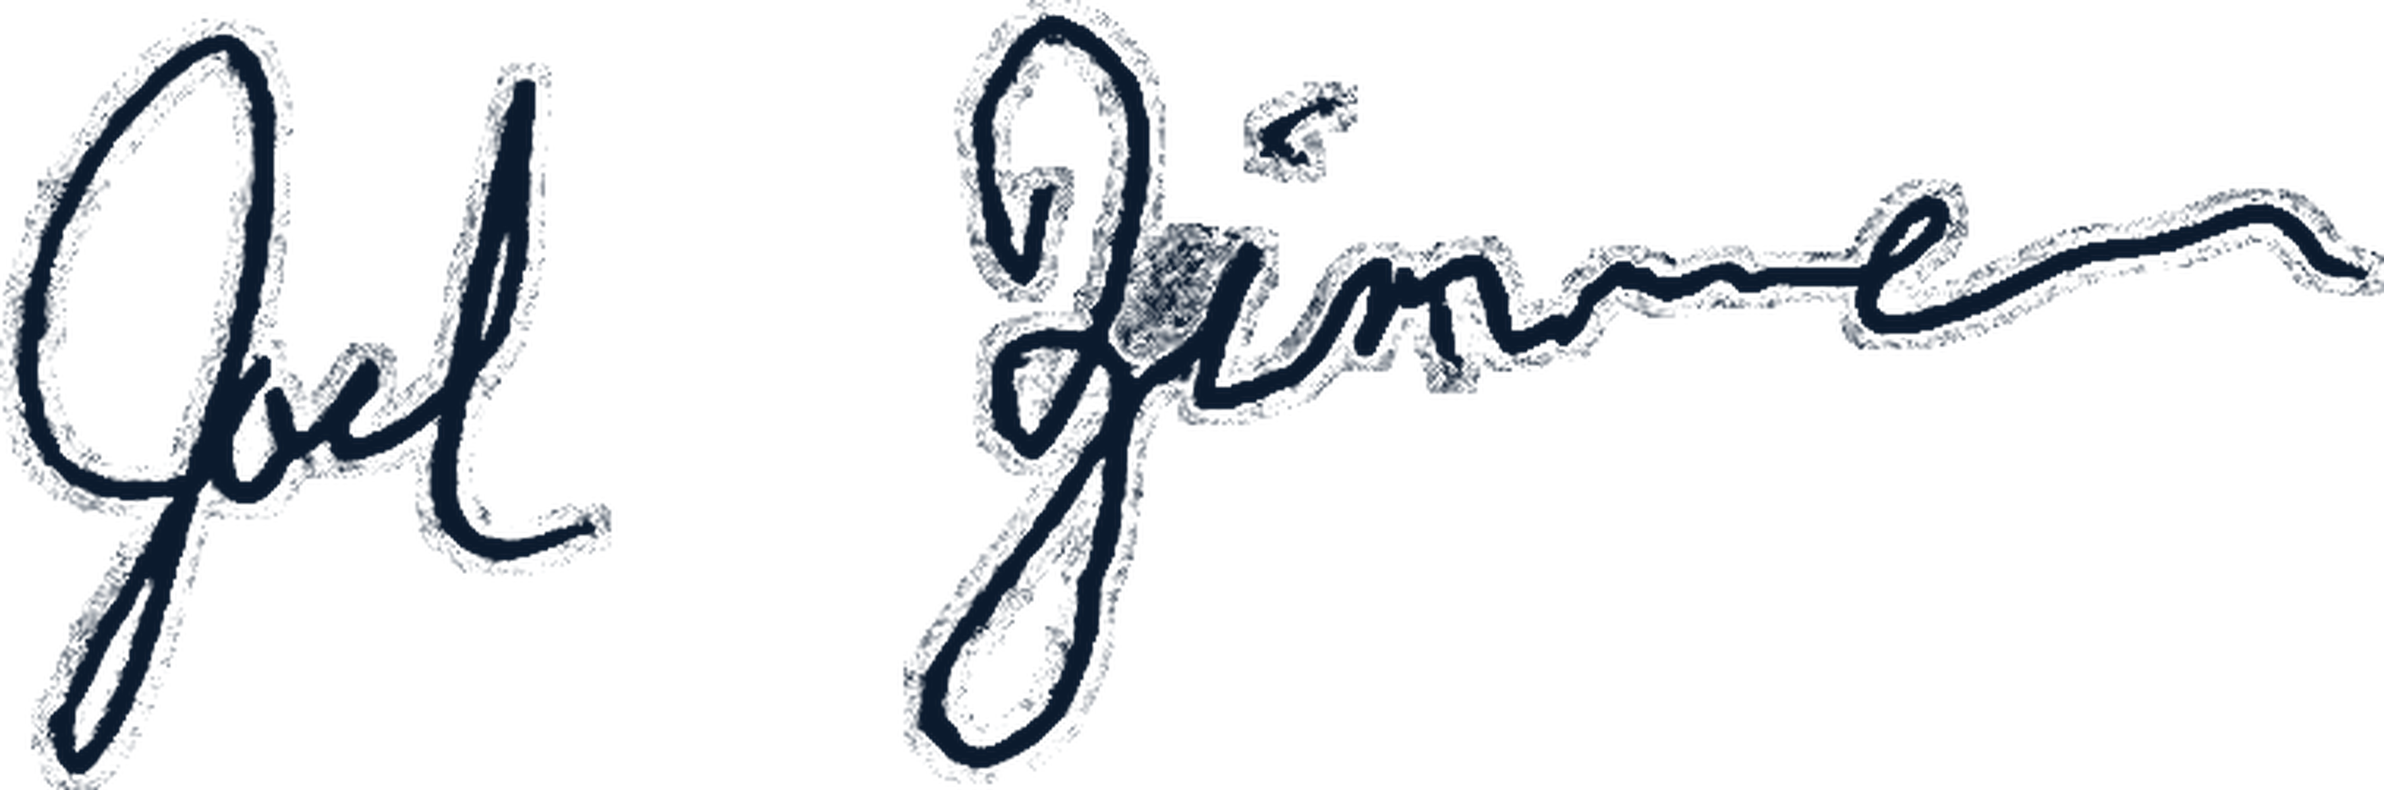
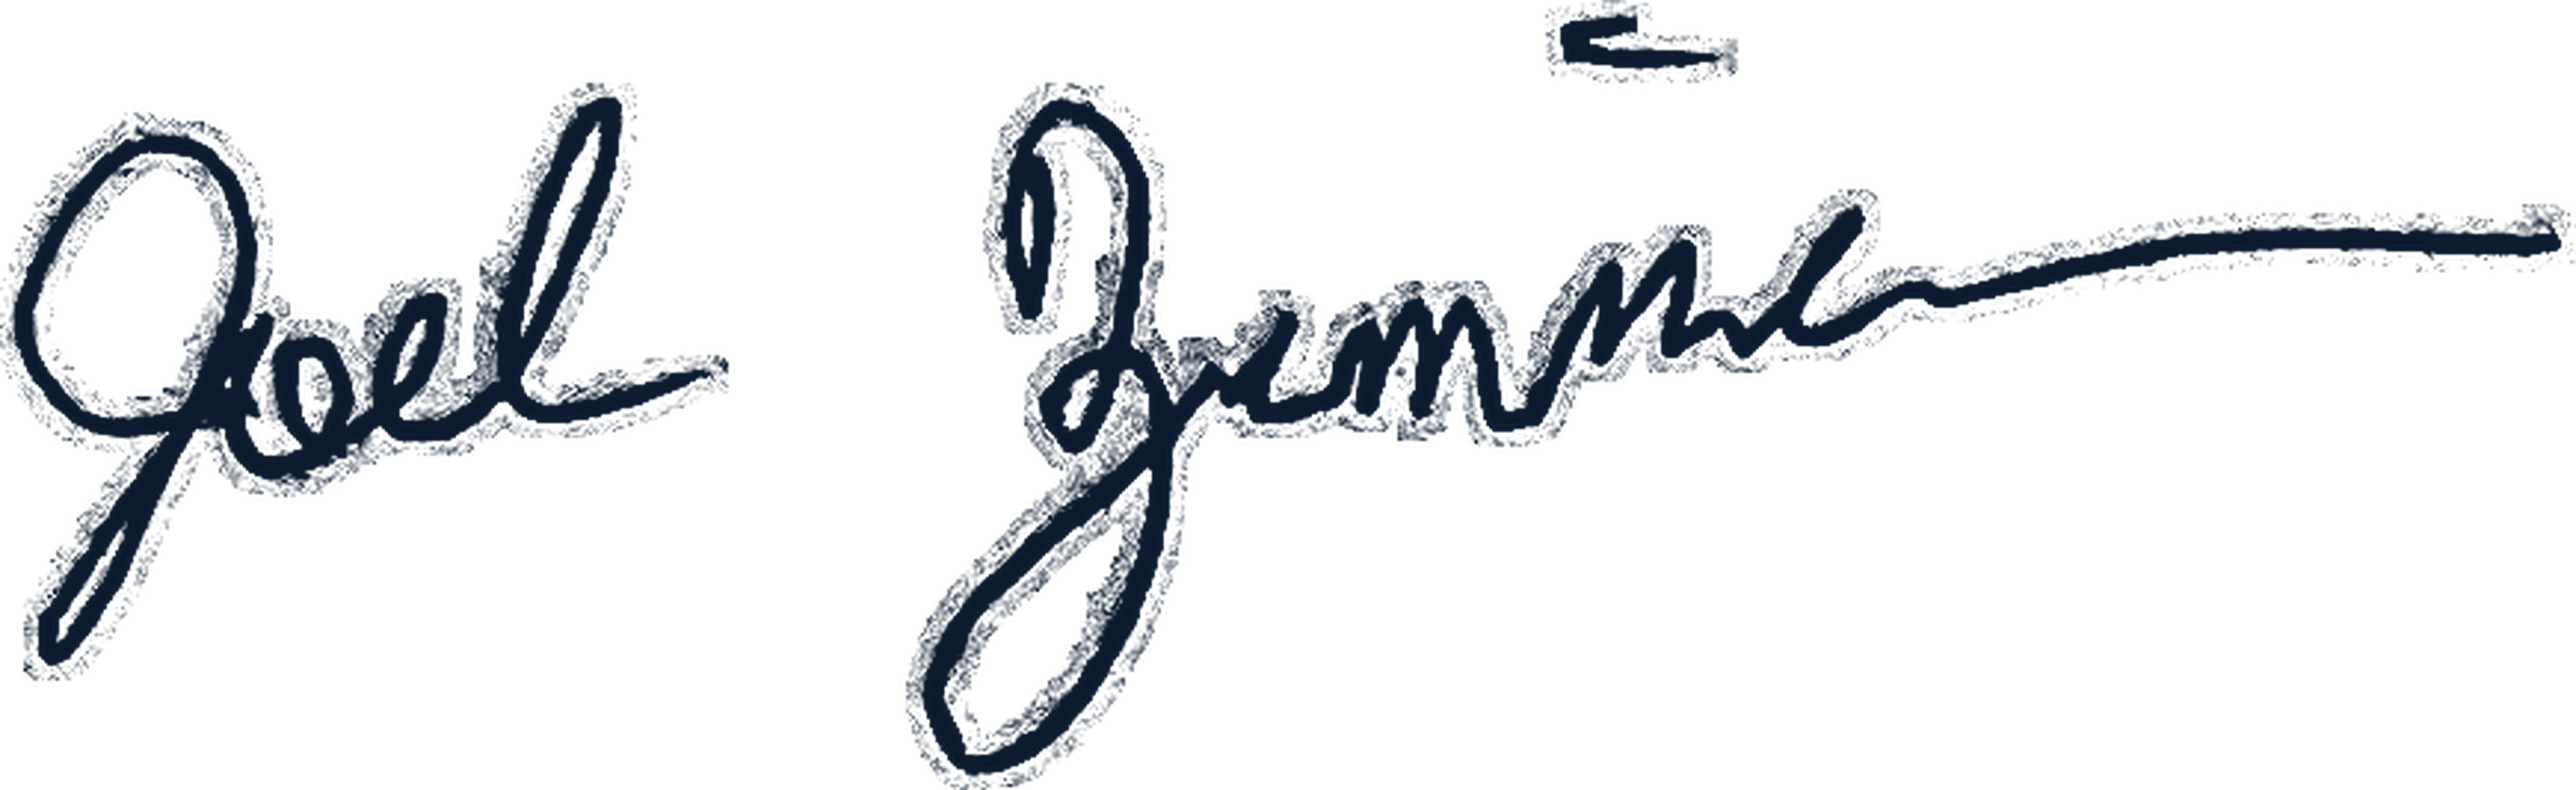
Brand Guide v5.7: the wide form becomes Joel's default signature
His default changes to the form whose trailing stroke fills a signature line
rather than sitting short of it. It takes joel-zimmer.svg and is what the
adoption band and the initiative documents now carry. The upright form it
replaces is the narrowest of the three and becomes joel-zimmer-compact.svg,
which brings his set to the same default, display, and compact forms as
Nathan's. The joel-zimmer-extended.svg filename published at v5.6 is
withdrawn.

Approved by Joel Zimmer and Nathan Zimmer.

Changed region(s): [[0.3435, 0.0, 1.0, 1.0], [0.0, 0.0308, 0.281, 1.0], [0.5933, 0.0, 0.6869, 0.0925]]

diff --git a/brand/index.html b/brand/index.html
@@ -3,7 +3,7 @@
 <head>
 <meta charset="UTF-8">
 <meta name="viewport" content="width=device-width, initial-scale=1.0">
-<title>Brand Guide v5.6 · THE WORD FOR ALL THE WORLD</title>
+<title>Brand Guide v5.7 · THE WORD FOR ALL THE WORLD</title>
 <link rel="preconnect" href="https://fonts.googleapis.com">
 <link rel="preconnect" href="https://fonts.gstatic.com" crossorigin>
 <link href="https://fonts.googleapis.com/css2?family=DM+Serif+Display:ital@0;1&family=DM+Serif+Text:ital@0;1&family=DM+Sans:ital,opsz,wght@0,9..40,400;0,9..40,500;0,9..40,600;0,9..40,700;1,9..40,400;1,9..40,700&display=swap" rel="stylesheet">
@@ -318,7 +318,7 @@
   </video>
   <div class="scrim"></div>
   <div class="inner">
-    <span class="kicker">Brand Guide · Version 5.6</span>
+    <span class="kicker">Brand Guide · Version 5.7</span>
     <h1>THE WORD<br>FOR ALL <em>THE WORLD</em></h1>
     <div class="rule"></div>
     <div class="meta">
@@ -845,6 +845,7 @@
     <p class="lede">This guide changes one way: a proposed edit in writing, approval by Joel Zimmer and Nathan Zimmer, a version bump, and a row in this table. No silent edits, ever. The same table is published for machines at <a href="/ai/brand-system.md" style="color:var(--word-blue);">/ai/brand-system.md</a>, so an audit report can name the exact version it was measured against.</p>
     <table>
       <tr><th style="width:66px;">Version</th><th style="width:104px;">Date</th><th style="width:120px;">Owner</th><th>Changed</th><th style="width:150px;">Approved</th></tr>
+      <tr><td>5.7</td><td>2026-08-15</td><td>Nathan Zimmer</td><td>Joel Zimmer's default signature changes to the wide form, the one whose trailing stroke fills a signature line rather than sitting short of it. It takes joel-zimmer.svg and is now what the adoption band and the initiative documents carry. The upright form it replaces is the narrowest of the three and becomes joel-zimmer-compact.svg, which brings his set to the same default, display, and compact forms as Nathan's. The joel-zimmer-extended.svg filename published at v5.6 is withdrawn.</td><td>Joel Zimmer, Nathan Zimmer</td></tr>
       <tr><td>5.6</td><td>2026-08-15</td><td>Nathan Zimmer</td><td>Joel Zimmer's signature masters published as approved assets in three forms, default, display, and extended, traced from the original ink and drawn as vectors. Every place his name is signed now carries real ink rather than an empty rule: this guide's adoption band and all three initiative documents. The Signatures page becomes a two-signer kit of seven masters, ordered the way a document is signed.</td><td>Joel Zimmer, Nathan Zimmer</td></tr>
       <tr><td>5.5</td><td>2026-08-15</td><td>Nathan Zimmer</td><td>Revival To My City has an approved mark. The chosen exploration is redrawn as vector, set in DM Sans at weight 900 and converted to outlines, and published in five forms. The raster explorations are withdrawn. Its brand guide drops the framed hero panel and leads with the mark on white, with the footage following as its own band.</td><td>Joel Zimmer, Nathan Zimmer</td></tr>
       <tr><td>5.4</td><td>2026-08-15</td><td>Nathan Zimmer</td><td>Revival To My City moves to a White base, which its spec already permitted, and its hero loop is replaced with a daylight city gathering that measures twice the brightness and twice the sharpness of the evening clip it retires. Eight candidate marks published as explorations at assets/logos/rtmc-explorations/, none approved, with the requirement that the chosen one is redrawn as vector before use.</td><td>Joel Zimmer, Nathan Zimmer</td></tr>
@@ -872,7 +873,7 @@
   <div class="wrap">
     <div class="inner">
       <div class="ad">Adopted and entered into the record</div>
-      <div class="vline">Brand Guide version 5.6 · Approved 15 August 2026</div>
+      <div class="vline">Brand Guide version 5.7 · Approved 15 August 2026</div>
       <div class="sigrow">
         <div class="sig">
           <div class="ink"><img src="/assets/signatures/joel-zimmer.svg" alt="Signed by Joel Zimmer"></div>

diff --git a/signatures/index.html b/signatures/index.html
@@ -147,10 +147,10 @@
         <div class="card">
           <div class="card-h">
             <h3>Joel Zimmer</h3>
-            <span class="meta">616 × 200 · SVG 14 KB</span>
+            <span class="meta">666 × 200 · SVG 18 KB</span>
           </div>
           <code class="slug">joel-zimmer.svg</code>
-          <p class="use">The default. The most upright and open of the three, with the largest J bowl and the clearest gap between the names, so it is the one to place on documents and letterhead unless there is a reason to reach for another. This is the signature placed on the initiative documents.</p>
+          <p class="use">The default. The widest of the three, with a trailing stroke carrying almost a third of the total width, so it fills a signature line rather than sitting short of it. This is the signature placed on the initiative documents.</p>
           <div class="stage"><img src="/assets/signatures/joel-zimmer.svg" alt="Joel Zimmer signature, default form"></div>
           <div class="grab">
             <a href="/assets/signatures/joel-zimmer.svg" download>Download SVG</a>
@@ -174,15 +174,15 @@
 
         <div class="card">
           <div class="card-h">
-            <h3>Joel Zimmer, extended</h3>
-            <span class="meta">666 × 200 · SVG 18 KB</span>
+            <h3>Joel Zimmer, compact</h3>
+            <span class="meta">616 × 200 · SVG 14 KB</span>
           </div>
-          <code class="slug">joel-zimmer-extended.svg</code>
-          <p class="use">The widest of the three, with a trailing stroke carrying almost a third of the total width. Use it where the signature line is wide and the default would leave the rule half empty.</p>
-          <div class="stage"><img src="/assets/signatures/joel-zimmer-extended.svg" alt="Joel Zimmer signature, extended form"></div>
+          <code class="slug">joel-zimmer-compact.svg</code>
+          <p class="use">Tightest of the three, and the most upright and open: largest J bowl, clearest gap between the names. The one that survives being scaled down.</p>
+          <div class="stage"><img src="/assets/signatures/joel-zimmer-compact.svg" alt="Joel Zimmer signature, compact form"></div>
           <div class="grab">
-            <a href="/assets/signatures/joel-zimmer-extended.svg" download>Download SVG</a>
-            <a class="ghost" href="/assets/signatures/joel-zimmer-extended.png" download>Download PNG</a>
+            <a href="/assets/signatures/joel-zimmer-compact.svg" download>Download SVG</a>
+            <a class="ghost" href="/assets/signatures/joel-zimmer-compact.png" download>Download PNG</a>
           </div>
         </div>
 

diff --git a/ai/index.html b/ai/index.html
@@ -26,7 +26,7 @@
 </head>
 <body>
 <main>
-  <span class="eyebrow">Machine-readable layer · v5.6</span>
+  <span class="eyebrow">Machine-readable layer · v5.7</span>
   <h1>The AI entry point for THE WORD brand system</h1>
   <p>Every file below is raw Markdown or JSON, served without navigation, scripts, or decoration.
      Agents should start at <a href="/ai/manifest.json">manifest.json</a>, which names every current
@@ -49,7 +49,7 @@
   <p><code>Before beginning, retrieve https://brand.theword.world/ai/manifest.json. Follow the brand
      system and skill it names. Audit the result against the audit resource and state which
      brand-system version you used.</code></p>
-  <footer>Brand system v5.6 · Messaging guide v1.0 · Updated 2026-08-15<br>
+  <footer>Brand system v5.7 · Messaging guide v1.0 · Updated 2026-08-15<br>
   brand.theword.world</footer>
 </main>
 </body>

diff --git a/ai/brand-system.md b/ai/brand-system.md
@@ -1,6 +1,6 @@
 # THE WORD FOR ALL THE WORLD: Brand System
 
-> **Brand system v5.6 · Messaging guide v1.0 · Updated 2026-08-15**
+> **Brand system v5.7 · Messaging guide v1.0 · Updated 2026-08-15**
 > Canonical source: <https://brand.theword.world/ai/manifest.json>
 > The complete standard, assembled for machine reading. The human guides are at <https://brand.theword.world/brand> and <https://brand.theword.world/brand/messaging>.
 
@@ -379,10 +379,11 @@ replace it.
 
 ## 15. Version history
 
-### Brand Guide v5.6
+### Brand Guide v5.7
 
 | Version | Date | Owner | Changed | Approved |
 | --- | --- | --- | --- | --- |
+| 5.7 | 2026-08-15 | Nathan Zimmer | Joel Zimmer's default signature changes to the wide form, the one whose trailing stroke fills a signature line rather than sitting short of it. It takes joel-zimmer.svg and is now what the adoption band and the initiative documents carry. The upright form it replaces is the narrowest of the three and becomes joel-zimmer-compact.svg, which brings his set to the same default, display, and compact forms as Nathan's. The joel-zimmer-extended.svg filename published at v5.6 is withdrawn. | Joel Zimmer, Nathan Zimmer |
 | 5.6 | 2026-08-15 | Nathan Zimmer | Joel Zimmer's signature masters published as approved assets in three forms, default, display, and extended, traced from the original ink and drawn as vectors. Every place his name is signed now carries real ink rather than an empty rule: this guide's adoption band and all three initiative documents. The Signatures page becomes a two-signer kit of seven masters, ordered the way a document is signed. | Joel Zimmer, Nathan Zimmer |
 | 5.5 | 2026-08-15 | Nathan Zimmer | Revival To My City has an approved mark. The chosen exploration is redrawn as vector, set in DM Sans at weight 900 and converted to outlines, and published in five forms. The raster explorations are withdrawn. Its brand guide drops the framed hero panel and leads with the mark on white, with the footage following as its own band. | Joel Zimmer, Nathan Zimmer |
 | 5.4 | 2026-08-15 | Nathan Zimmer | Revival To My City moves to a White base, which its spec already permitted, and its hero loop is replaced with a daylight city gathering that measures twice the brightness and twice the sharpness of the evening clip it retires. Eight candidate marks published as explorations at assets/logos/rtmc-explorations/, none approved, with the requirement that the chosen one is redrawn as vector before use. | Joel Zimmer, Nathan Zimmer |

diff --git a/ai/approved-examples.md b/ai/approved-examples.md
@@ -1,6 +1,6 @@
 # Approved Examples
 
-> **Brand system v5.6 · Messaging guide v1.0 · Updated 2026-08-15**
+> **Brand system v5.7 · Messaging guide v1.0 · Updated 2026-08-15**
 > Canonical source: <https://brand.theword.world/ai/manifest.json>
 > This file is hand-authored in `ai-source/` and published unchanged. The build never rewrites its body.
 

diff --git a/ai/audit.md b/ai/audit.md
@@ -1,6 +1,6 @@
 # Brand Audit
 
-> **Brand system v5.6 · Messaging guide v1.0 · Updated 2026-08-15**
+> **Brand system v5.7 · Messaging guide v1.0 · Updated 2026-08-15**
 > Canonical source: <https://brand.theword.world/ai/manifest.json>
 > This file is hand-authored in `ai-source/` and published unchanged. The build never rewrites its body.
 

diff --git a/ai/anti-patterns.md b/ai/anti-patterns.md
@@ -1,6 +1,6 @@
 # Anti-patterns
 
-> **Brand system v5.6 · Messaging guide v1.0 · Updated 2026-08-15**
+> **Brand system v5.7 · Messaging guide v1.0 · Updated 2026-08-15**
 > Canonical source: <https://brand.theword.world/ai/manifest.json>
 > What not to do. The first section is hand-authored; the rest is generated from the guides.
 
